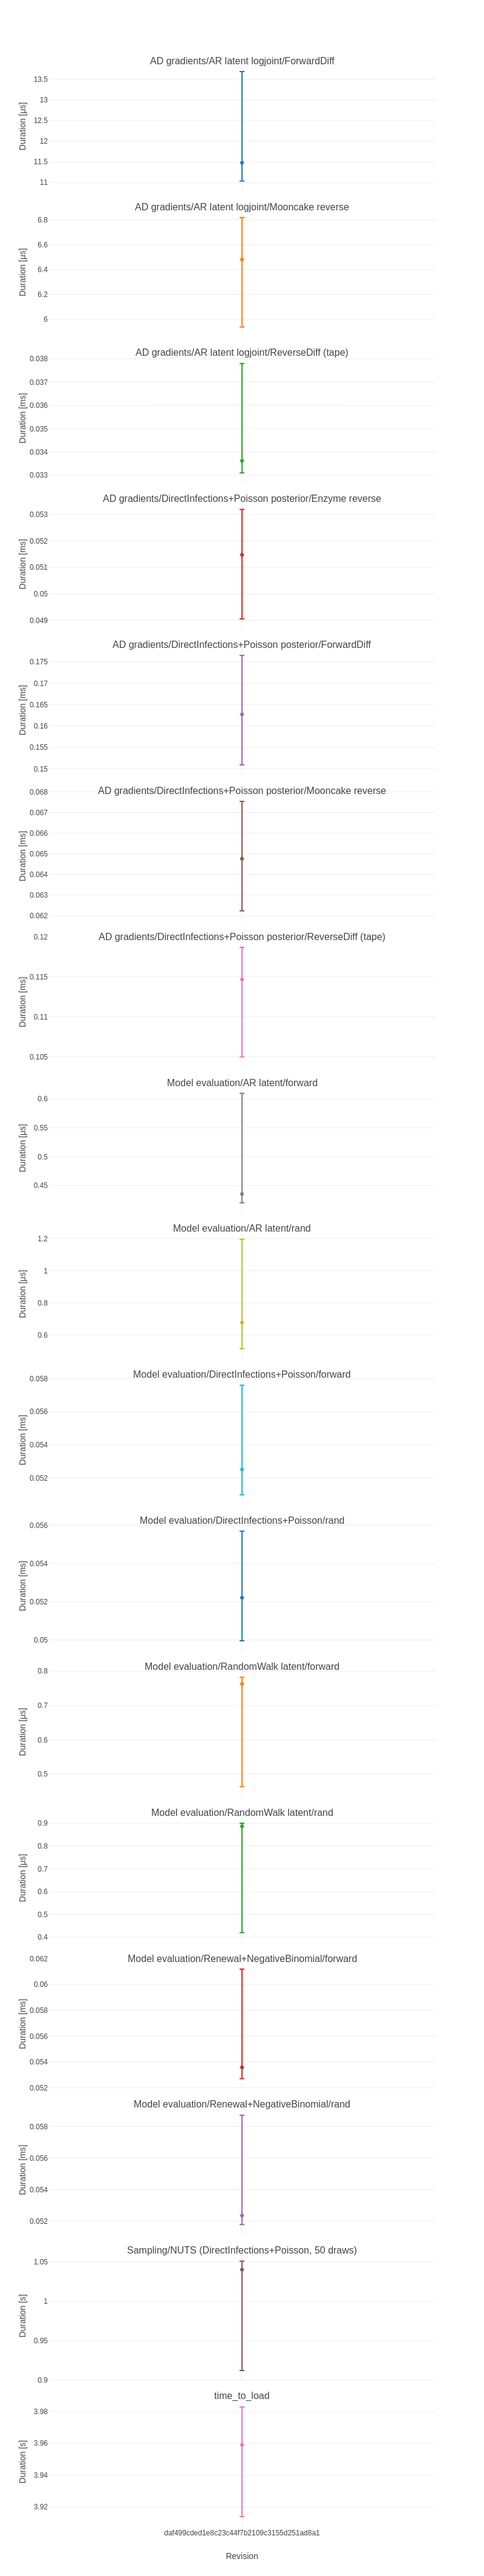
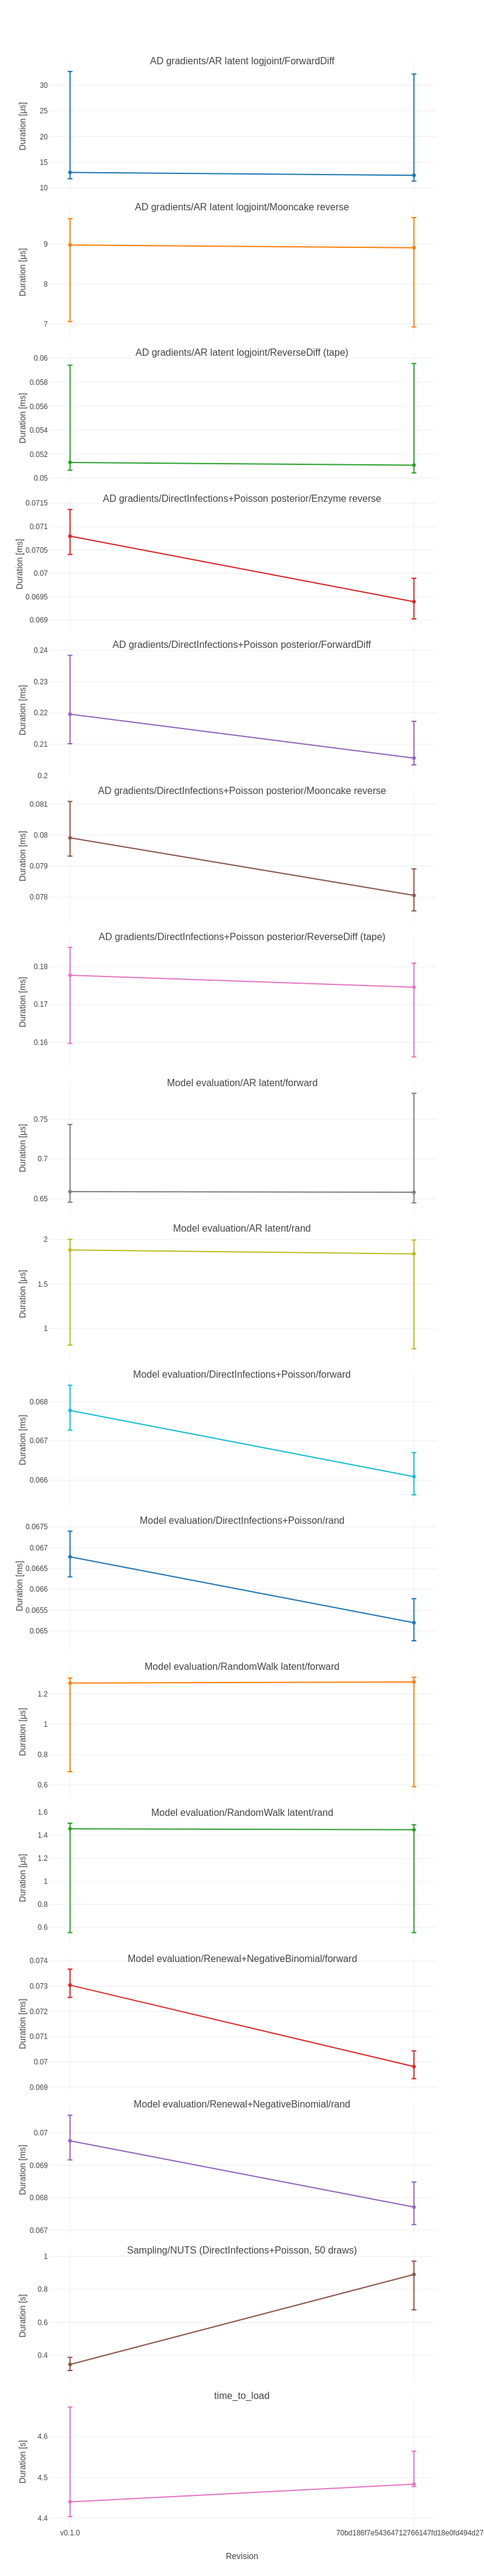
Deploying to benchmarks from @ EpiAware/ComposableTuringIDModels.jl@70bd186f7e54364712766147fd18e0fd494d273d 🚀

diff --git a/history/table.md b/history/table.md
@@ -1,40 +1,40 @@
-|                                                                    | daf499cded1e8c...  |
-|:-------------------------------------------------------------------|:------------------:|
-| AD gradients/AR latent logjoint/ForwardDiff                        | 11.5 ± 2.6 μs      |
-| AD gradients/AR latent logjoint/Mooncake reverse                   | 6.48 ± 0.88 μs     |
-| AD gradients/AR latent logjoint/ReverseDiff (tape)                 | 0.0336 ± 0.0047 ms |
-| AD gradients/DirectInfections+Poisson posterior/Enzyme reverse     | 0.0515 ± 0.0041 ms |
-| AD gradients/DirectInfections+Poisson posterior/ForwardDiff        | 0.163 ± 0.026 ms   |
-| AD gradients/DirectInfections+Poisson posterior/Mooncake reverse   | 0.0648 ± 0.0053 ms |
-| AD gradients/DirectInfections+Poisson posterior/ReverseDiff (tape) | 0.115 ± 0.014 ms   |
-| Model evaluation/AR latent/forward                                 | 0.435 ± 0.19 μs    |
-| Model evaluation/AR latent/rand                                    | 0.678 ± 0.68 μs    |
-| Model evaluation/DirectInfections+Poisson/forward                  | 0.0525 ± 0.0066 ms |
-| Model evaluation/DirectInfections+Poisson/rand                     | 0.0522 ± 0.0057 ms |
-| Model evaluation/RandomWalk latent/forward                         | 0.763 ± 0.32 μs    |
-| Model evaluation/RandomWalk latent/rand                            | 0.887 ± 0.48 μs    |
-| Model evaluation/Renewal+NegativeBinomial/forward                  | 0.0536 ± 0.0085 ms |
-| Model evaluation/Renewal+NegativeBinomial/rand                     | 0.0524 ± 0.0069 ms |
-| Sampling/NUTS (DirectInfections+Poisson, 50 draws)                 | 1.04 ± 0.14 s      |
-| time_to_load                                                       | 3.96 ± 0.069 s     |
+|                                                                    | v0.1.0              | 70bd186f7e5436...   | v0.1.0 / 70bd186f7e5436... |
+|:-------------------------------------------------------------------|:-------------------:|:-------------------:|:--------------------------:|
+| AD gradients/AR latent logjoint/ForwardDiff                        | 13 ± 21 μs          | 12.5 ± 21 μs        | 1.04 ± 2.4                 |
+| AD gradients/AR latent logjoint/Mooncake reverse                   | 8.98 ± 2.6 μs       | 8.92 ± 2.7 μs       | 1.01 ± 0.42                |
+| AD gradients/AR latent logjoint/ReverseDiff (tape)                 | 0.0513 ± 0.0088 ms  | 0.0511 ± 0.0091 ms  | 1 ± 0.25                   |
+| AD gradients/DirectInfections+Poisson posterior/Enzyme reverse     | 0.0708 ± 0.00096 ms | 0.0694 ± 0.00087 ms | 1.02 ± 0.019               |
+| AD gradients/DirectInfections+Poisson posterior/ForwardDiff        | 0.22 ± 0.028 ms     | 0.206 ± 0.014 ms    | 1.07 ± 0.16                |
+| AD gradients/DirectInfections+Poisson posterior/Mooncake reverse   | 0.0799 ± 0.0018 ms  | 0.0781 ± 0.0014 ms  | 1.02 ± 0.029               |
+| AD gradients/DirectInfections+Poisson posterior/ReverseDiff (tape) | 0.178 ± 0.025 ms    | 0.175 ± 0.025 ms    | 1.02 ± 0.21                |
+| Model evaluation/AR latent/forward                                 | 0.659 ± 0.098 μs    | 0.658 ± 0.14 μs     | 1 ± 0.26                   |
+| Model evaluation/AR latent/rand                                    | 1.88 ± 1.2 μs       | 1.84 ± 1.2 μs       | 1.02 ± 0.94                |
+| Model evaluation/DirectInfections+Poisson/forward                  | 0.0678 ± 0.0011 ms  | 0.0661 ± 0.0011 ms  | 1.03 ± 0.024               |
+| Model evaluation/DirectInfections+Poisson/rand                     | 0.0668 ± 0.0011 ms  | 0.0652 ± 0.001 ms   | 1.02 ± 0.023               |
+| Model evaluation/RandomWalk latent/forward                         | 1.27 ± 0.62 μs      | 1.28 ± 0.72 μs      | 0.994 ± 0.74               |
+| Model evaluation/RandomWalk latent/rand                            | 1.46 ± 0.95 μs      | 1.45 ± 0.94 μs      | 1.01 ± 0.93                |
+| Model evaluation/Renewal+NegativeBinomial/forward                  | 0.073 ± 0.0011 ms   | 0.0698 ± 0.0011 ms  | 1.05 ± 0.023               |
+| Model evaluation/Renewal+NegativeBinomial/rand                     | 0.0698 ± 0.0014 ms  | 0.0677 ± 0.0013 ms  | 1.03 ± 0.029               |
+| Sampling/NUTS (DirectInfections+Poisson, 50 draws)                 | 0.345 ± 0.08 s      | 0.891 ± 0.3 s       | 0.387 ± 0.16               |
+| time_to_load                                                       | 4.44 ± 0.27 s       | 4.48 ± 0.087 s      | 0.99 ± 0.063               |
 
-|                                                                    | daf499cded1e8c...         |
-|:-------------------------------------------------------------------|:-------------------------:|
-| AD gradients/AR latent logjoint/ForwardDiff                        | 0.056 k allocs: 0.0508 MB |
-| AD gradients/AR latent logjoint/Mooncake reverse                   | 0.04 k allocs: 4.98 kB    |
-| AD gradients/AR latent logjoint/ReverseDiff (tape)                 | 0.775 k allocs: 0.0319 MB |
-| AD gradients/DirectInfections+Poisson posterior/Enzyme reverse     | 0.242 k allocs: 12.3 kB   |
-| AD gradients/DirectInfections+Poisson posterior/ForwardDiff        | 0.68 k allocs: 0.0835 MB  |
-| AD gradients/DirectInfections+Poisson posterior/Mooncake reverse   | 0.32 k allocs: 15.5 kB    |
-| AD gradients/DirectInfections+Poisson posterior/ReverseDiff (tape) | 1.65 k allocs: 0.0654 MB  |
-| Model evaluation/AR latent/forward                                 | 20  allocs: 2.41 kB       |
-| Model evaluation/AR latent/rand                                    | 22  allocs: 2.83 kB       |
-| Model evaluation/DirectInfections+Poisson/forward                  | 0.35 k allocs: 15.8 kB    |
-| Model evaluation/DirectInfections+Poisson/rand                     | 0.349 k allocs: 15.1 kB   |
-| Model evaluation/RandomWalk latent/forward                         | 16  allocs: 1.83 kB       |
-| Model evaluation/RandomWalk latent/rand                            | 15  allocs: 2.05 kB       |
-| Model evaluation/Renewal+NegativeBinomial/forward                  | 0.48 k allocs: 22.3 kB    |
-| Model evaluation/Renewal+NegativeBinomial/rand                     | 0.477 k allocs: 21.6 kB   |
-| Sampling/NUTS (DirectInfections+Poisson, 50 draws)                 | 3.57 M allocs: 0.442 GB   |
-| time_to_load                                                       | 0.15 k allocs: 11.7 kB    |
+|                                                                    | v0.1.0                    | 70bd186f7e5436...         | v0.1.0 / 70bd186f7e5436... |
+|:-------------------------------------------------------------------|:-------------------------:|:-------------------------:|:--------------------------:|
+| AD gradients/AR latent logjoint/ForwardDiff                        | 0.056 k allocs: 0.0508 MB | 0.056 k allocs: 0.0508 MB | 1                          |
+| AD gradients/AR latent logjoint/Mooncake reverse                   | 0.04 k allocs: 4.98 kB    | 0.04 k allocs: 4.98 kB    | 1                          |
+| AD gradients/AR latent logjoint/ReverseDiff (tape)                 | 0.775 k allocs: 0.0319 MB | 0.775 k allocs: 0.0319 MB | 1                          |
+| AD gradients/DirectInfections+Poisson posterior/Enzyme reverse     | 0.242 k allocs: 12.3 kB   | 0.242 k allocs: 12.3 kB   | 1                          |
+| AD gradients/DirectInfections+Poisson posterior/ForwardDiff        | 0.68 k allocs: 0.0835 MB  | 0.68 k allocs: 0.0835 MB  | 1                          |
+| AD gradients/DirectInfections+Poisson posterior/Mooncake reverse   | 0.32 k allocs: 15.5 kB    | 0.32 k allocs: 15.5 kB    | 1                          |
+| AD gradients/DirectInfections+Poisson posterior/ReverseDiff (tape) | 1.65 k allocs: 0.0654 MB  | 1.65 k allocs: 0.0654 MB  | 1                          |
+| Model evaluation/AR latent/forward                                 | 20  allocs: 2.41 kB       | 20  allocs: 2.41 kB       | 1                          |
+| Model evaluation/AR latent/rand                                    | 22  allocs: 2.83 kB       | 22  allocs: 2.83 kB       | 1                          |
+| Model evaluation/DirectInfections+Poisson/forward                  | 0.35 k allocs: 15.8 kB    | 0.35 k allocs: 15.8 kB    | 1                          |
+| Model evaluation/DirectInfections+Poisson/rand                     | 0.349 k allocs: 15.1 kB   | 0.349 k allocs: 15.1 kB   | 1                          |
+| Model evaluation/RandomWalk latent/forward                         | 16  allocs: 1.83 kB       | 16  allocs: 1.83 kB       | 1                          |
+| Model evaluation/RandomWalk latent/rand                            | 15  allocs: 2.05 kB       | 15  allocs: 2.05 kB       | 1                          |
+| Model evaluation/Renewal+NegativeBinomial/forward                  | 0.545 k allocs: 23.3 kB   | 0.48 k allocs: 22.3 kB    | 1.05                       |
+| Model evaluation/Renewal+NegativeBinomial/rand                     | 0.542 k allocs: 22.6 kB   | 0.477 k allocs: 21.6 kB   | 1.05                       |
+| Sampling/NUTS (DirectInfections+Poisson, 50 draws)                 | 0.912 M allocs: 0.114 GB  | 2.03 M allocs: 0.252 GB   | 0.453                      |
+| time_to_load                                                       | 0.149 k allocs: 11.2 kB   | 0.149 k allocs: 11.2 kB   | 1                          |
 

diff --git a/history/README.md b/history/README.md
@@ -1,6 +1,6 @@
 # ComposableTuringIDModels.jl benchmark history
 
-Revisions: daf499cded1e8c23c44f7b2109c3155d251ad8a1
+Revisions: v0.1.0,70bd186f7e54364712766147fd18e0fd494d273d
 
 See `table.md` for the ratio summary and the PNG
 files in this folder for per-benchmark timelines.
